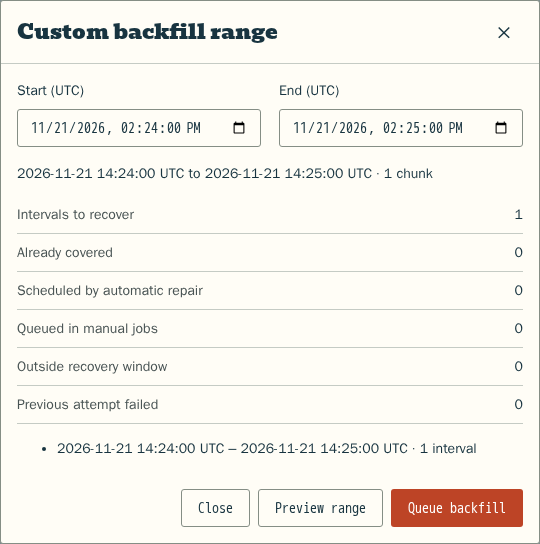
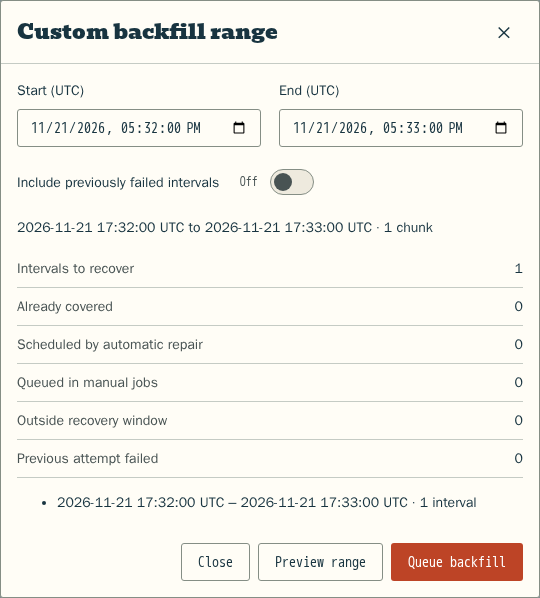
Verify backfill contention and capture the updated UI flow

diff --git a/internal/storage/backfill_queue_integration_test.go b/internal/storage/backfill_queue_integration_test.go
@@ -4,11 +4,15 @@ package storage
 
 import (
 	"database/sql"
+	"encoding/json"
 	"errors"
+	"strconv"
 	"testing"
 	"time"
 
+	"github.com/dsolsona/almanac/internal/agentprotocol"
 	"github.com/dsolsona/almanac/internal/sli"
+	"github.com/google/uuid"
 	"github.com/jackc/pgx/v5"
 )
 
@@ -396,5 +400,93 @@ JOIN almanac_sli_measurements m ON m.agent_id=c.agent_id WHERE m.sli_id=$1`, s.s
 	}
 	if len(recovered) != 1 || !recovered[0].Equal(end.Add(-time.Minute)) {
 		t.Fatalf("recovered intervals = %v", recovered)
+	}
+}
+
+func TestIntegrationBackfillFullChunkAlongsideLiveIngestion(t *testing.T) {
+	t.Parallel()
+	s := newSelfHealFixture(t, "backfill-live", true)
+	ctx := t.Context()
+	start := s.historyStart
+	end := start.Add(64 * time.Minute)
+	liveStart := s.at.Add(-3 * time.Minute)
+	if _, err := s.conn.Exec(ctx, `DELETE FROM almanac_sli_observations WHERE sli_id=$1
+AND ((interval_start >= $2 AND interval_start < $3) OR interval_start=$4)`, s.sliID, start, end, liveStart); err != nil {
+		t.Fatal(err)
+	}
+	if _, err := RequestBackfill(ctx, s.f.databaseURL, BackfillRequest{
+		Proof: DatasourceProof{SessionVerifier: s.f.verifier}, SLIID: s.sliID,
+		Start: start, End: end, RequestKey: "full-chunk", Now: s.clock,
+	}); err != nil {
+		t.Fatal(err)
+	}
+	var proof BackfillAgentProof
+	var credentialVerifier []byte
+	if err := s.conn.QueryRow(ctx, `SELECT c.id,c.verifier FROM almanac_agent_credentials c
+JOIN almanac_sli_measurements m ON m.agent_id=c.agent_id WHERE m.sli_id=$1`, s.sliID).Scan(&proof.CredentialID, &credentialVerifier); err != nil {
+		t.Fatal(err)
+	}
+	copy(proof.Verifier[:], credentialVerifier)
+	proof.ResumeVerifier = ownershipVerifier(ownershipBytes(32, 82))
+	owner, err := AcquireAgentOwnership(ctx, s.f.databaseURL, proof.CredentialID, proof.Verifier, proof.ResumeVerifier, s.clock)
+	if err != nil {
+		t.Fatal(err)
+	}
+	proof.Generation = owner.Generation
+	if _, err := s.conn.Exec(ctx, `UPDATE almanac_agent_runtime_status SET generation=$2,
+ last_heartbeat_at=$3, scheduler_health='ready', applied_configuration_revision=desired_configuration_revision
+ WHERE agent_id=$1`, owner.AgentID, proof.Generation, s.now); err != nil {
+		t.Fatal(err)
+	}
+	allowed, err := json.Marshal([]agentprotocol.MeasurementGrant{{SLIID: s.sliID, MeasurementRevision: "1"}})
+	if err != nil {
+		t.Fatal(err)
+	}
+	if _, err := s.conn.Exec(ctx, `UPDATE almanac_agent_execution_grants SET allowed_measurements=$1 WHERE lease_id=$2`, allowed, owner.LeaseID); err != nil {
+		t.Fatal(err)
+	}
+	claim, err := ClaimBackfill(ctx, s.f.databaseURL, proof, s.clock, s.runtime)
+	if err != nil || claim.ID == "" || claim.End.Sub(claim.Start) != 64*time.Minute {
+		t.Fatalf("full claim = %+v, %v", claim, err)
+	}
+	observed := sli.ExecutionOutcome{State: sli.OutcomeObserved, GoodCount: "99", TotalCount: "100"}
+	result := sli.BackfillChunkResult{ChunkID: claim.ID, Generation: claim.Generation, Outcomes: make([]sli.ExecutionOutcome, 64)}
+	for index := range result.Outcomes {
+		result.Outcomes[index] = observed
+	}
+	item := sli.ObservationItem{DeliveryID: uuid.NewString(), ExecutionID: uuid.NewString(), CreatedAt: s.now, LeaseID: owner.LeaseID,
+		ConfigurationRevision: strconv.FormatInt(owner.ConfigurationRevision, 10), SessionGeneration: strconv.FormatInt(owner.Generation, 10),
+		SLIID: s.sliID, MeasurementRevision: "1", IntervalStart: liveStart, IntervalEnd: liveStart.Add(time.Minute), Outcome: observed}
+	state, now, revision, err := beginBackfillAgent(ctx, s.f.databaseURL, proof, s.clock, s.runtime)
+	if err != nil {
+		t.Fatal(err)
+	}
+	defer closeAgentOwnershipTransaction(state)
+	live := make(chan error, 1)
+	started := time.Now()
+	go func() {
+		accepted, err := IngestAgentObservation(ctx, s.f.databaseURL, proof.CredentialID, proof.Verifier, item, s.clock, s.runtime)
+		if err == nil && accepted.Status != "accepted" {
+			err = errors.New("live observation status: " + accepted.Status + " " + accepted.ErrorCode)
+		}
+		live <- err
+	}()
+	waitForAgentQueryWait(t, s.conn, "%FROM public.almanac_agents%")
+	fenced := time.Now()
+	if err := commitBackfillChunk(ctx, state.tx, owner.AgentID, proof.Generation, revision, now, result); err != nil {
+		t.Fatal(err)
+	}
+	if err := state.tx.Commit(ctx); err != nil {
+		t.Fatal(err)
+	}
+	committed := time.Now()
+	if err := <-live; err != nil {
+		t.Fatalf("concurrent live observation: %v", err)
+	}
+	t.Logf("64 intervals committed in %s. Concurrent live acceptance took %s including the observed agent-lock wait.", committed.Sub(fenced), time.Since(started))
+	var rows int
+	if err := s.conn.QueryRow(ctx, `SELECT count(*) FROM almanac_sli_observations
+ WHERE backfill_chunk_id=$1 OR delivery_id=$2`, claim.ID, item.DeliveryID).Scan(&rows); err != nil || rows != 65 {
+		t.Fatalf("committed rows = %d, %v", rows, err)
 	}
 }

diff --git a/internal/agentcmd/collection_test.go b/internal/agentcmd/collection_test.go
@@ -1046,3 +1046,57 @@ func TestTransitionDefersAddedCursorUntilDelayedGrant(t *testing.T) {
 		})
 	}
 }
+
+func TestDispatchDuePreemptsHistoryAndPreservesDatasourceCap(t *testing.T) {
+	now := time.Date(2026, 10, 27, 12, 5, 0, 0, time.UTC)
+	runner := newCollectionRunner(testClient(now, testNonce(81)))
+	ctx, cancel := context.WithCancel(t.Context())
+	var workers sync.WaitGroup
+	t.Cleanup(func() { cancel(); workers.Wait() })
+	historicalCtx, stopHistory := context.WithCancel(ctx)
+	defer stopHistory()
+
+	assignment := agentprotocol.DatasourceAssignment{DatasourceID: "00000000-0000-4000-8000-000000000001",
+		DatasourceVersion: "1", Provider: "prometheus", ConfigurationFormat: "prometheus-http-v1",
+		Endpoint: "http://127.0.0.1:8428", PollingIntervalSeconds: 15, SettlingDelaySeconds: 60}
+	lease := testLease(now.Add(-time.Hour), "ABCDEFGHIJKLMNOPQRSTUVWXYZabcdef", now.Add(time.Hour))
+	lease.AgentID = testAgentID
+	measurements := make([]agentprotocol.SLICollection, 0, maxCollectionPerSource)
+	for index := range maxCollectionPerSource {
+		id := fmt.Sprintf("00000000-0000-4000-8000-%012d", index+100)
+		measurements = append(measurements, agentprotocol.SLICollection{SLIID: id, MeasurementRevision: "1", DatasourceID: assignment.DatasourceID,
+			DatasourceVersion: "1", MeasurementKind: agentprotocol.MeasurementKindEventCounts, ComponentMode: agentprotocol.ComponentModeIntervalCount,
+			GoodQuery: "vector(1)", TotalQuery: "vector(2)", EffectiveFrom: now.Add(-2 * time.Minute)})
+		lease.AllowedMeasurements = append(lease.AllowedMeasurements, agentprotocol.MeasurementGrant{SLIID: id, MeasurementRevision: "1"})
+	}
+	runner.SetLease(lease)
+	runner.SetConfiguration(agentprotocol.ConfigurationSnapshot{Assignments: []agentprotocol.DatasourceAssignment{assignment}, SLIs: measurements})
+	runner.mu.Lock()
+	runner.root, runner.workers = ctx, &workers
+	runner.launchCollection = func(ctx context.Context, _ collectionDefinition) { <-ctx.Done() }
+	runner.historicalSource, runner.cancelHistorical = assignment.DatasourceID, stopHistory
+	for _, measurement := range measurements {
+		runner.nextIntervalEnd[collectionKey(measurement)] = now.Add(-61 * time.Second)
+		runner.initialPending[collectionKey(measurement)] = true
+	}
+	runner.mu.Unlock()
+
+	runner.dispatchDue(ctx)
+	if !errors.Is(historicalCtx.Err(), context.Canceled) {
+		t.Fatal("live dispatch did not cancel historical collection")
+	}
+	runner.mu.Lock()
+	active := runner.activeSources[assignment.DatasourceID]
+	runner.historicalSource, runner.cancelHistorical = "", nil
+	runner.mu.Unlock()
+	if active != maxCollectionPerSource-1 {
+		t.Fatalf("live queries while historical query exits = %d", active)
+	}
+	runner.dispatchDue(ctx)
+	runner.mu.Lock()
+	active = runner.activeSources[assignment.DatasourceID]
+	runner.mu.Unlock()
+	if active != maxCollectionPerSource {
+		t.Fatalf("live queries after historical query exits = %d", active)
+	}
+}

diff --git a/docs/tasks/F4-T65.md b/docs/tasks/F4-T65.md
@@ -56,3 +56,12 @@
   superseded agent ownership, a retention boundary that moved during execution,
   partial observations, and the shared retry budget. Historical work uses a
   bounded batch write and the normal derived invalidation.
+- The deployed Playwright journey passed in 40.2s and verified that Escape
+  dismisses a pending preview and restores focus. It then queued work on the
+  real agent, verified the exact observation and recalculated SLO, and captured
+  the desktop preview and mobile result above.
+- The scheduler regression confirmed live dispatch cancels history and keeps
+  the configured per-source concurrency cap while the historical request exits.
+  In the local PostgreSQL contention test, a full 64-interval chunk committed
+  in 8.5ms while a real live submission waited on the same agent lock. Live
+  acceptance took 30.7ms including that wait. Both writes committed.
